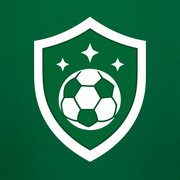
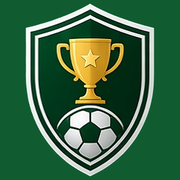
Download page: new crest branding, cache-bust 1.1.7

diff --git a/index.html b/index.html
@@ -2,8 +2,8 @@
 <title>Fanta Survivor – Scarica l'app</title>
 <meta name="description" content="Il gioco Survivor sulla Serie A: scegli una squadra a giornata, sopravvivi fino alla fine e vinci i premi in palio. Iscrizione gratuita.">
 <meta property="og:title" content="Fanta Survivor – Sopravvivi alla Serie A"><meta property="og:description" content="Scegli una squadra ogni giornata. Se vince, sei dentro. Resisti fino alla fine e porta a casa i premi in palio. Iscrizione gratuita!">
-<meta property="og:image" content="https://fantasurvivor.github.io/download/og.png"><meta property="og:url" content="https://fantasurvivor.github.io/download/"><meta property="og:type" content="website"><meta name="twitter:card" content="summary_large_image">
-<link rel="icon" type="image/png" href="favicon.png"><link rel="apple-touch-icon" href="apple-touch-icon.png"><meta name="theme-color" content="#16A34A">
+<meta property="og:image" content="https://fantasurvivor.github.io/download/og.png?v=1.1.7"><meta property="og:url" content="https://fantasurvivor.github.io/download/"><meta property="og:type" content="website"><meta name="twitter:card" content="summary_large_image">
+<link rel="icon" type="image/png" href="favicon.png?v=1.1.7"><link rel="apple-touch-icon" href="apple-touch-icon.png?v=1.1.7"><meta name="theme-color" content="#16A34A">
 <link href="https://fonts.googleapis.com/css2?family=Anton&family=Inter:wght@400;600&display=swap" rel="stylesheet">
 <style>*{box-sizing:border-box}body{margin:0;background:#F7F8F7;font-family:Inter,system-ui,sans-serif;color:#1f2937;line-height:1.55}
 main{max-width:720px;margin:auto;padding:16px}h1,h2{font-family:Anton,sans-serif;letter-spacing:.5px;text-transform:uppercase;margin:.2em 0}
@@ -13,8 +13,8 @@ h1{font-size:2.6rem}h2{font-size:1.6rem;color:#16A34A}.hero{text-align:center;pa
 .meta{color:#6b7280;font-size:.9rem;margin-top:8px}ol,ul{padding-left:1.2em}li{margin:6px 0}details{border-top:1px solid #eee;padding:10px 0}summary{font-weight:600;cursor:pointer}
 .tag{display:inline-block;background:#DCFCE7;color:#166534;border-radius:99px;padding:4px 12px;font-weight:600;font-size:.85rem}footer{text-align:center;color:#6b7280;font-size:.85rem;padding:24px}</style></head>
 <body><main>
-<section class="hero"><img src="logo.png" alt="Logo Fanta Survivor"><h1>Fanta Survivor</h1><p>Sopravvivi alla Serie A. Una squadra a giornata, nessun errore concesso.</p>
-<a class="btn" href="FantaSurvivor.apk" download="FantaSurvivor.apk">⬇ Scarica APK</a><div class="meta" id="ver">Versione 1.1.7 · Android · circa 24 MB</div></section>
+<section class="hero"><img src="logo.png?v=1.1.7" alt="Logo Fanta Survivor"><h1>Fanta Survivor</h1><p>Sopravvivi alla Serie A. Una squadra a giornata, nessun errore concesso.</p>
+<a class="btn" href="FantaSurvivor.apk?v=1.1.7" download="FantaSurvivor.apk">⬇ Scarica APK</a><div class="meta" id="ver">Versione 1.1.7 · Android · circa 24 MB</div></section>
 <section class="card"><h2>Come si gioca</h2><ul>
 <li>Ogni giornata scegli <b>una squadra</b> di Serie A.</li><li>Se la tua squadra <b>vince</b>, sopravvivi.</li>
 <li>Pareggio o sconfitta = <b>eliminato</b>. Se non scegli, ti assegniamo la prima squadra disponibile in ordine alfabetico.</li><li>Le scelte si chiudono <b>5 minuti prima</b> della prima partita della giornata.</li><li>Non puoi usare la stessa squadra due volte.</li>
@@ -37,6 +37,6 @@ h1{font-size:2.6rem}h2{font-size:1.6rem;color:#16A34A}.hero{text-align:center;pa
 </main><footer>© 2026 Fanta Survivor · Gioco non affiliato alla Lega Serie A</footer><script>
 fetch('version.json',{cache:'no-store'}).then(r=>r.json()).then(v=>{
   var el=document.getElementById('ver');
-  if(el&&v.versionName) el.textContent='Versione '+v.versionName+' · Android · circa 23 MB';
+  if(el&&v.versionName) el.textContent='Versione '+v.versionName+' · Android · circa 24 MB';
 }).catch(function(){});
 </script></body></html>
